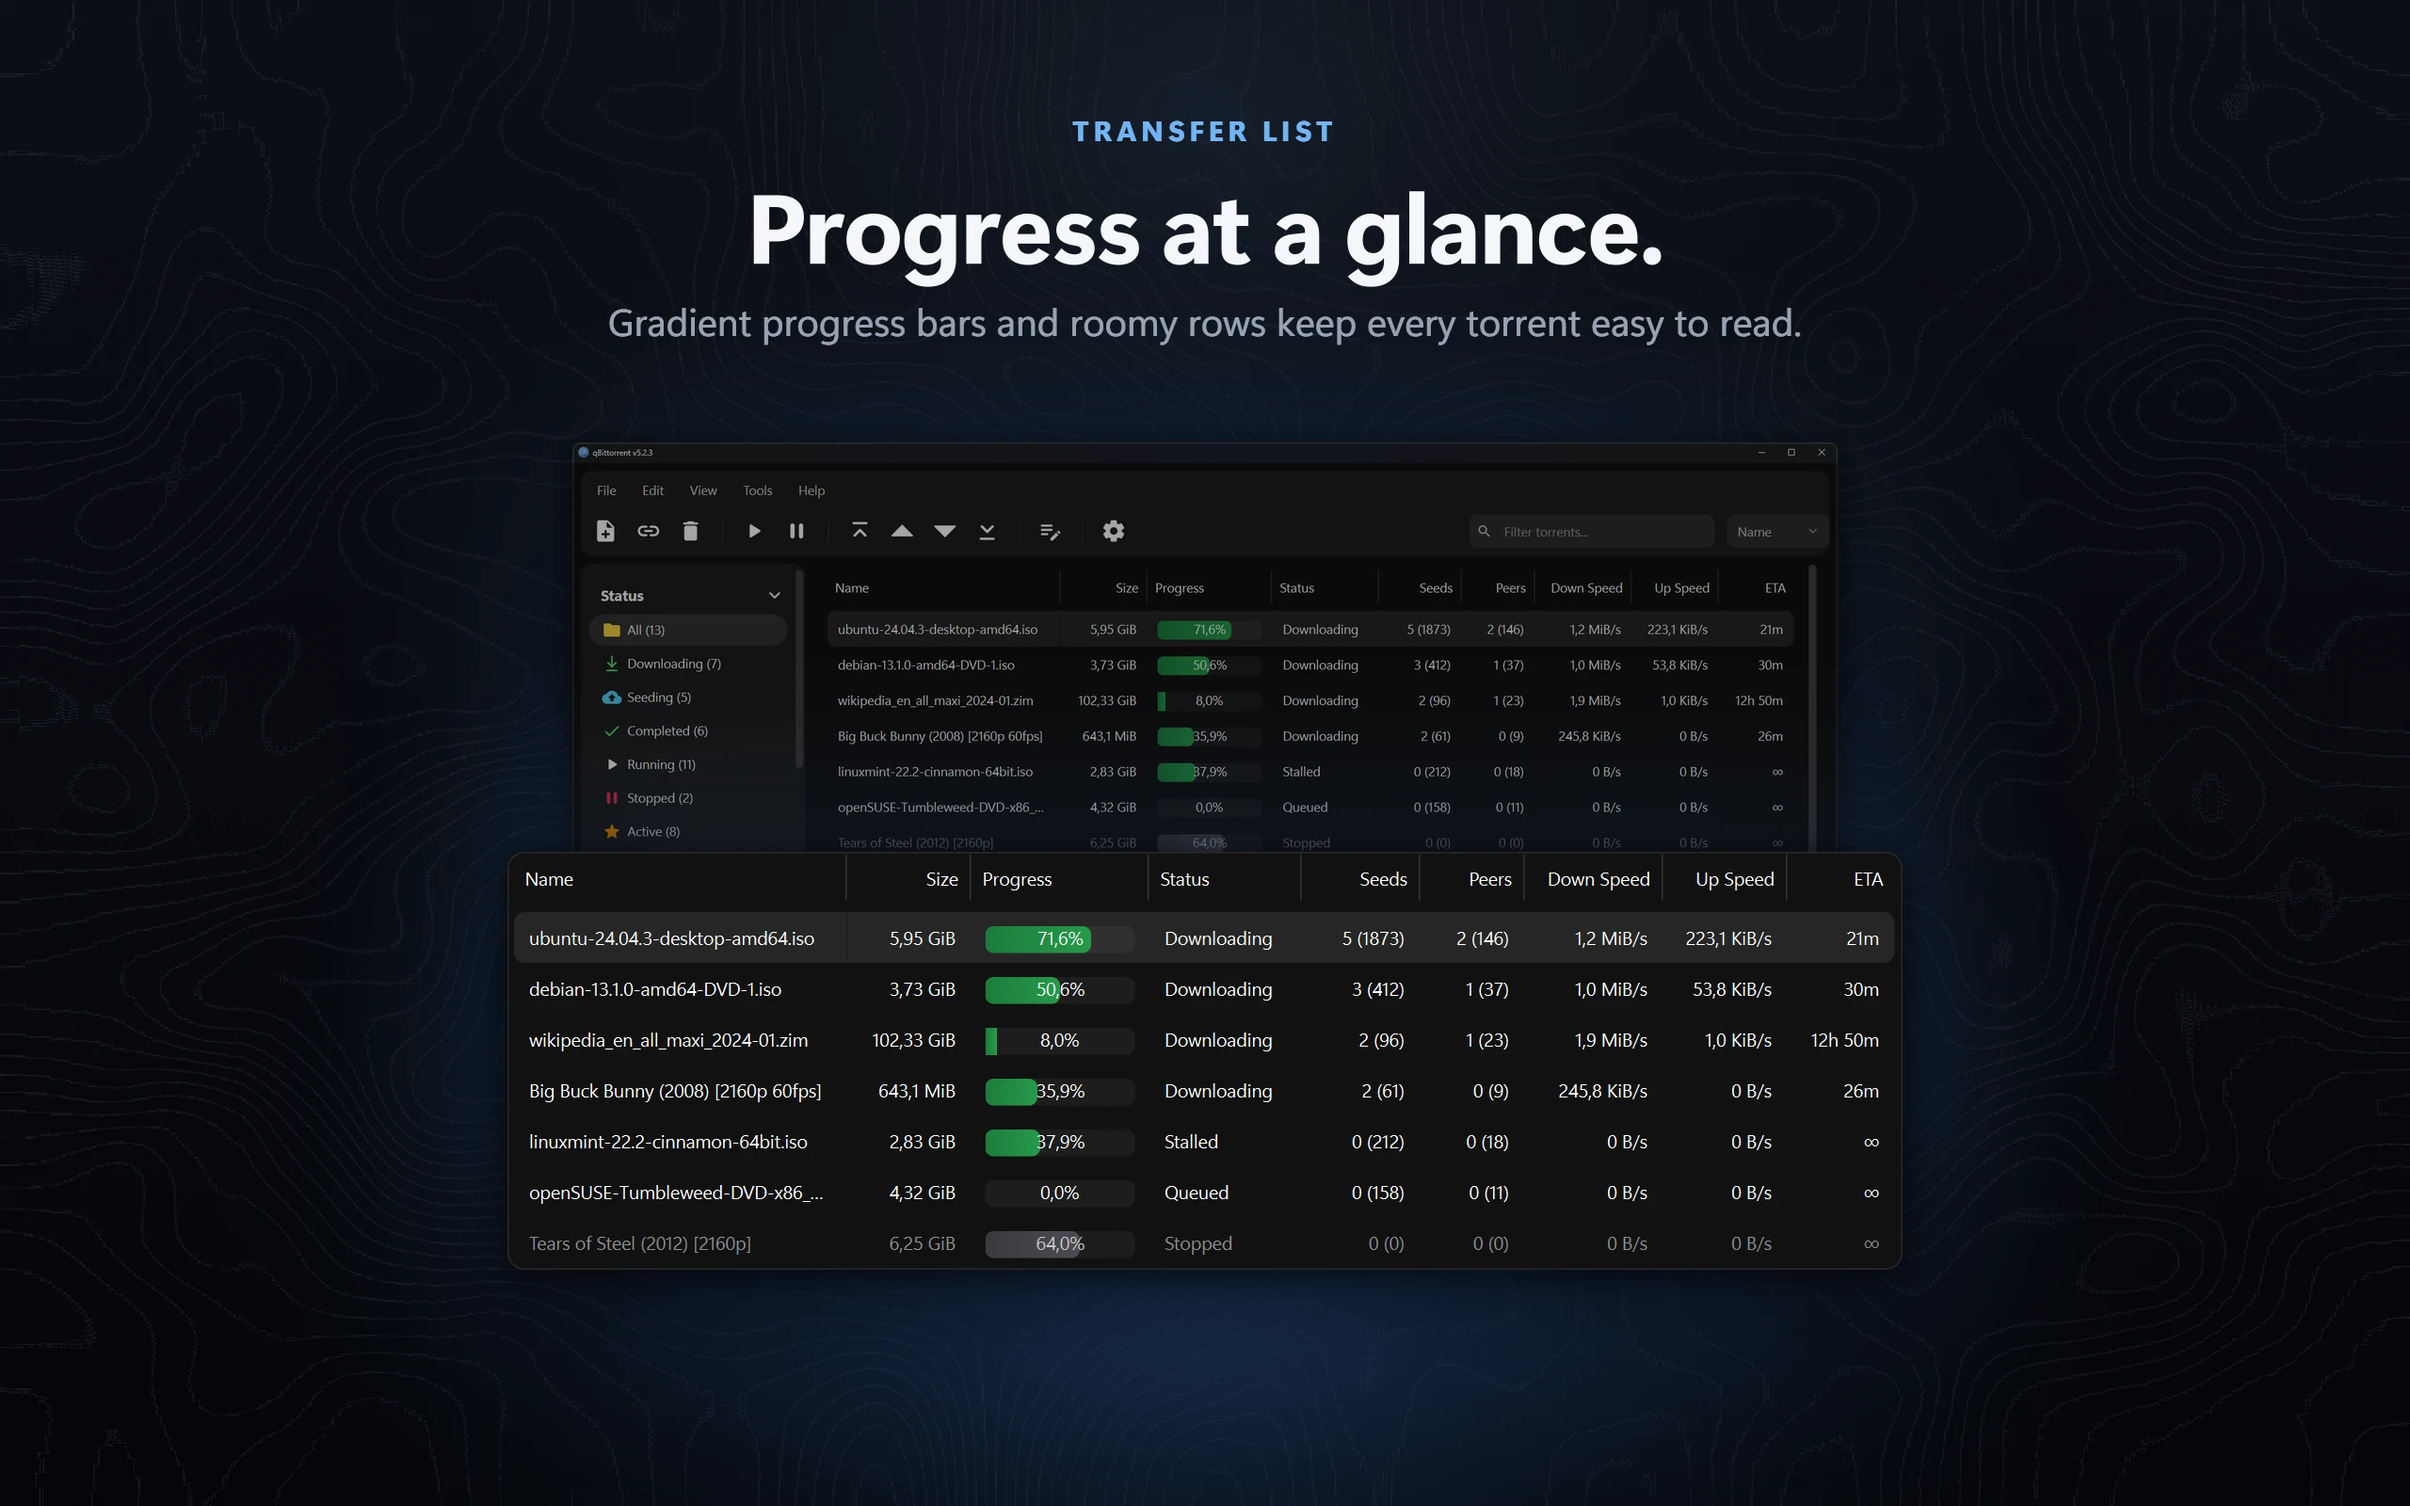
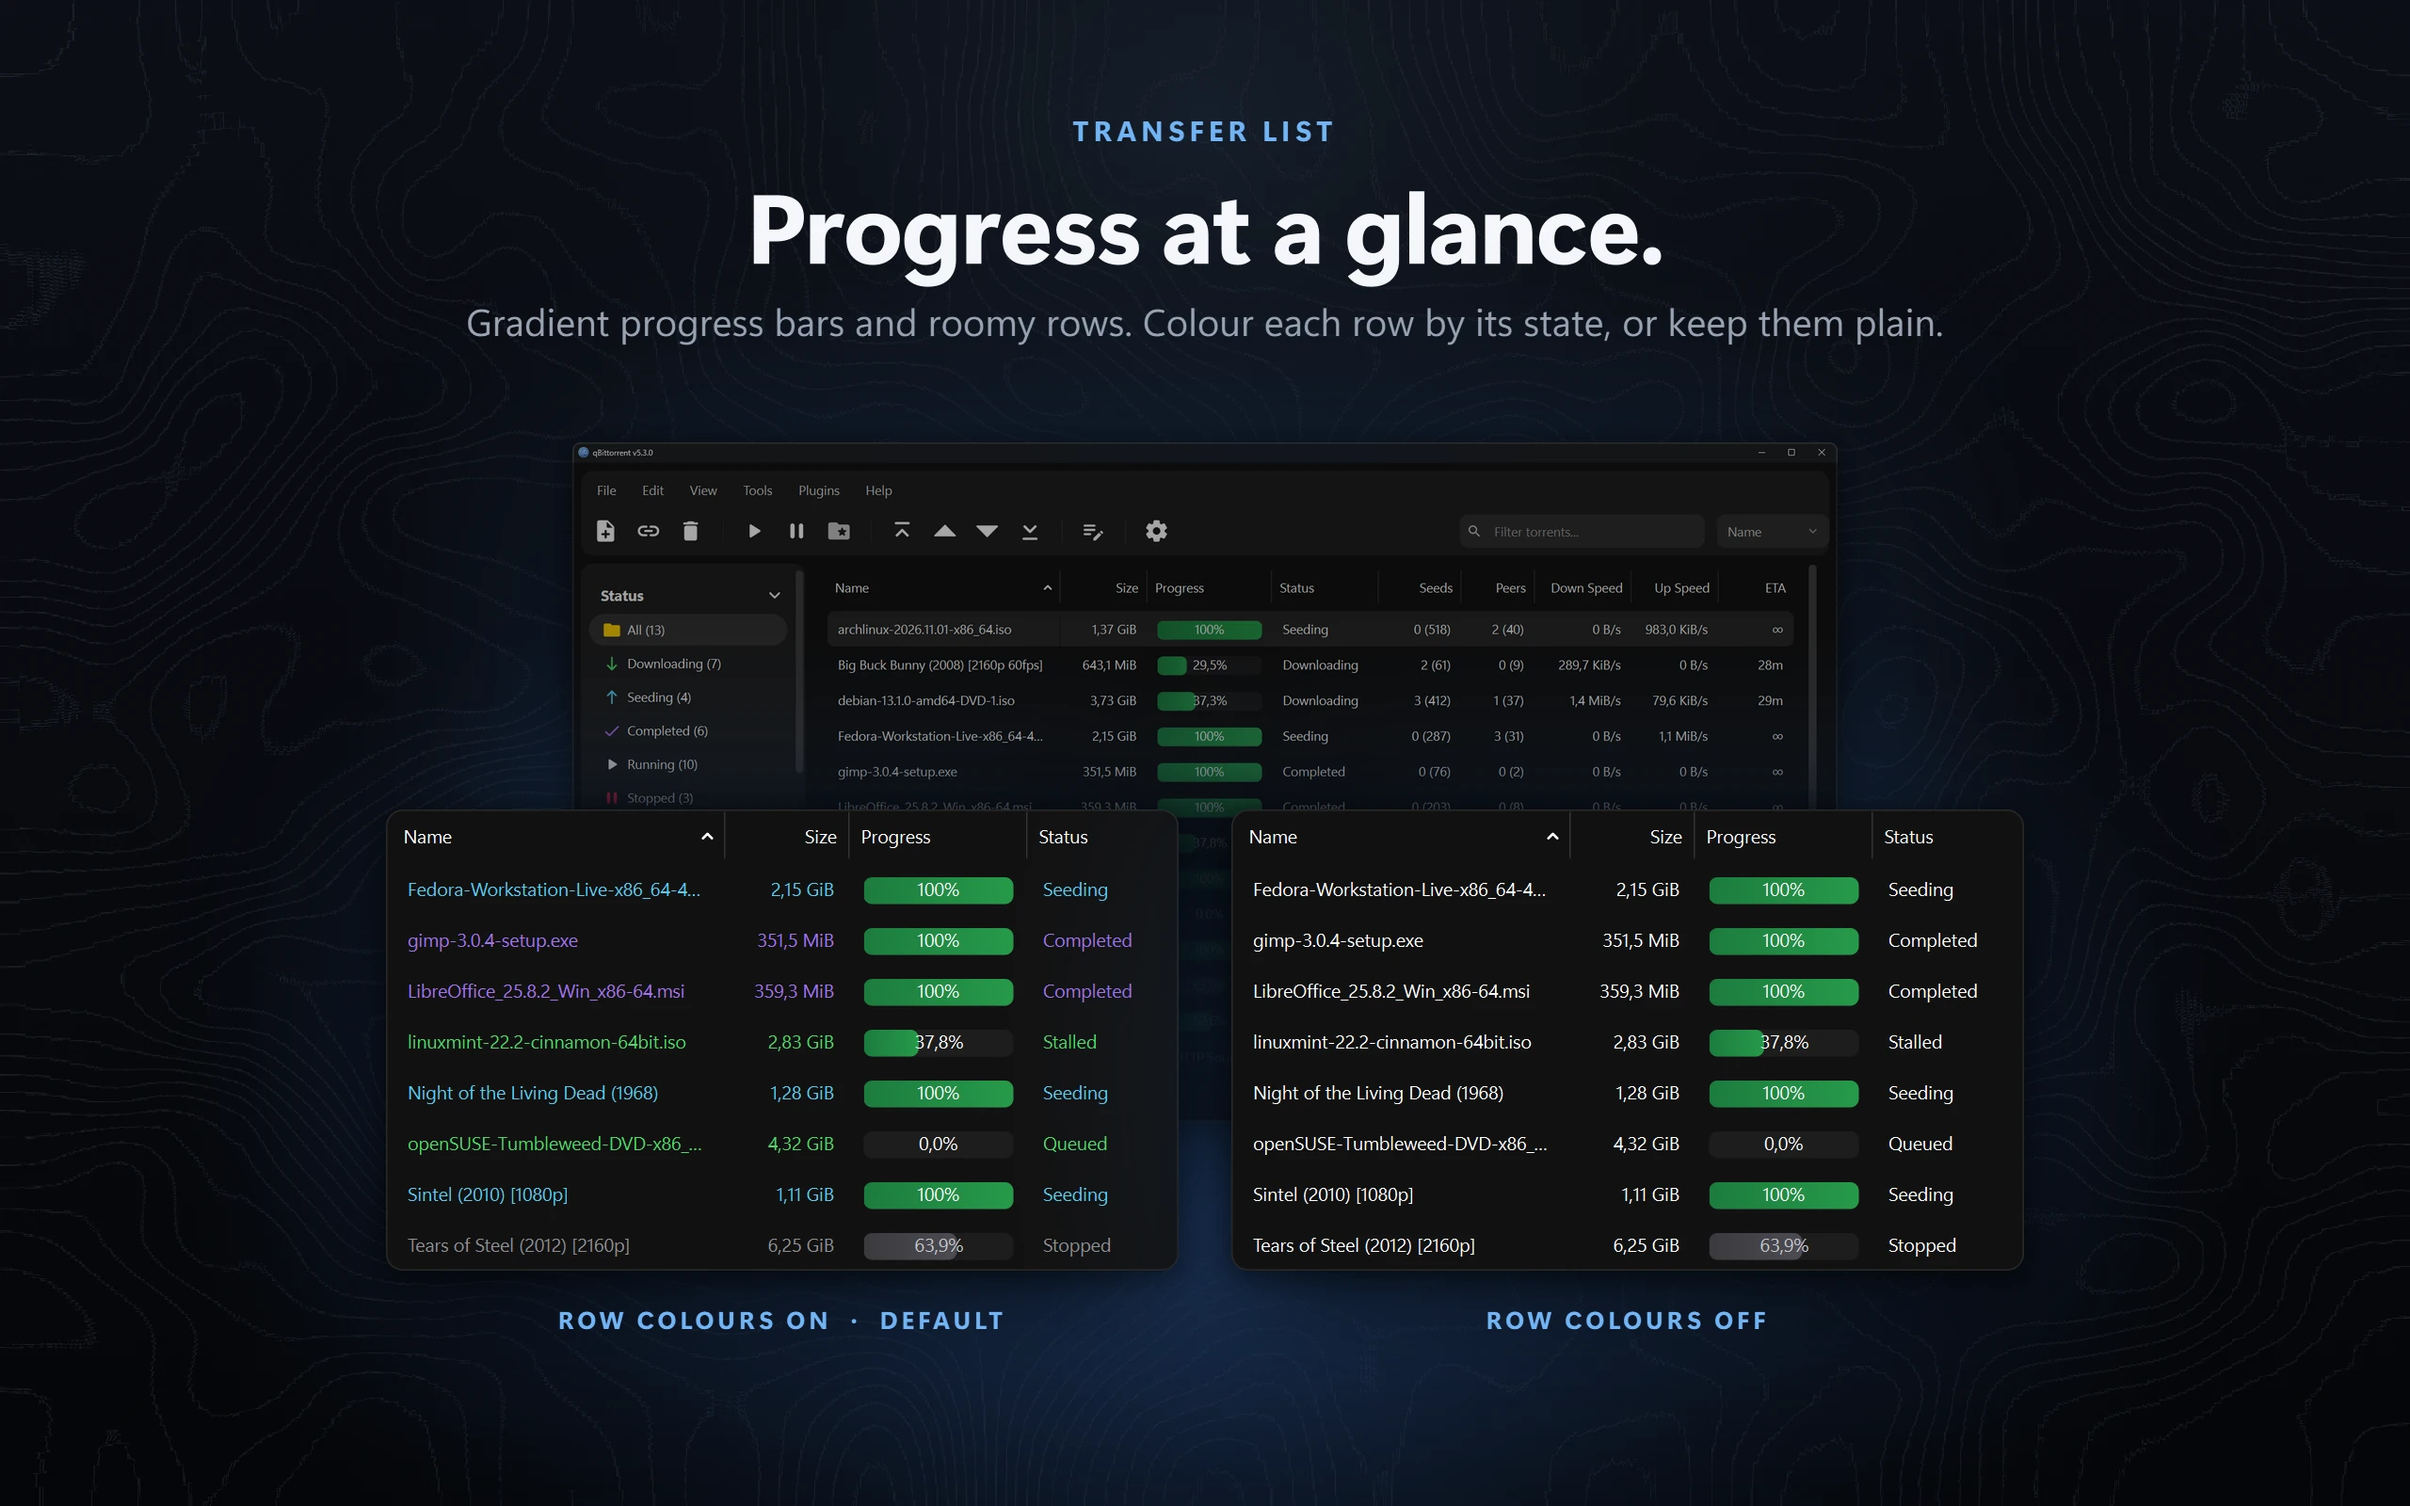
Update README and add new images for Nightseed Alternative theme

diff --git a/README.md b/README.md
@@ -10,13 +10,14 @@ colour-coded Material icons in Apple's palette.
 
 [![Nightseed: qBittorrent with the theme, showing the transfer list, sidebar and toolbar](assets/compressed/01-hero.webp)](assets/originals/01-hero.png?raw=true)
 
-Tested on **qBittorrent 5.2.3 (Qt 6.10) on Windows 11**. It targets qBittorrent
-5.x. It should also load on 4.6.x (also Qt 6), but that is untested.
+Tested on **qBittorrent 5.3.0 (Qt 6.11) and 5.2.3 (Qt 6.10) on Windows 11**. It
+targets qBittorrent 5.x. It should also load on 4.6.x (also Qt 6), but that is
+untested.
 
 ## Screenshots
 
 <p align="center">
-  <a href="assets/originals/02-transfers.png?raw=true"><img src="assets/compressed/02-transfers.webp" width="49%" alt="Transfer list with gradient progress bars"></a>
+  <a href="assets/originals/02-transfers.png?raw=true"><img src="assets/compressed/02-transfers.webp" width="49%" alt="Transfer list with gradient progress bars, with row colours on (the default) and off"></a>
   <a href="assets/originals/03-filters.png?raw=true"><img src="assets/compressed/03-filters.webp" width="49%" alt="Sidebar filters with pill-shaped selections"></a>
   <a href="assets/originals/04-details.png?raw=true"><img src="assets/compressed/04-details.webp" width="49%" alt="Details panel with the speed graph"></a>
   <a href="assets/originals/05-menus.png?raw=true"><img src="assets/compressed/05-menus.webp" width="49%" alt="Right-click menu and a submenu"></a>
@@ -28,15 +29,22 @@ Tested on **qBittorrent 5.2.3 (Qt 6.10) on Windows 11**. It targets qBittorrent
 
 Each release has two theme files, built from the same source:
 
-- **Nightseed** (`Nightseed.qbtheme`) is the look in the screenshots. Rows are
-  coloured by torrent state, and the progress bars keep the theme's rounded green
-  gradient whatever the state.
+- **Nightseed** (`Nightseed.qbtheme`) is the theme in the screenshots above. Its
+  rows are coloured by torrent state by default, and you can switch that off
+  (step 5 of [Install](#install)). The transfer list screenshot shows both; the
+  others have it off. The progress bars keep the theme's rounded green gradient
+  whatever the state.
 - **Nightseed Alternative** (`Nightseed-Alternative.qbtheme`) adds a state icon
   at the start of each row, and its progress bars can take each state's colour
   too (step 5 of [Install](#install)). For that, qBittorrent draws the bars itself:
   they have smaller corners and a thin outline, in the transfer list and in file
   lists. Downloading and seeding rows use a slightly darker green and blue, so
   the percentage stays readable on a coloured bar.
+
+<p align="center">
+  <a href="assets/originals/08-alternative.png?raw=true"><img src="assets/compressed/08-alternative.webp" width="49%" alt="Nightseed Alternative: state icons, and rows and progress bars coloured by state"></a>
+  <a href="assets/originals/09-alternative-settings.png?raw=true"><img src="assets/compressed/09-alternative-settings.webp" width="49%" alt="Nightseed Alternative: both Transfer List colour settings ticked in Options"></a>
+</p>
 
 ## Install
 
